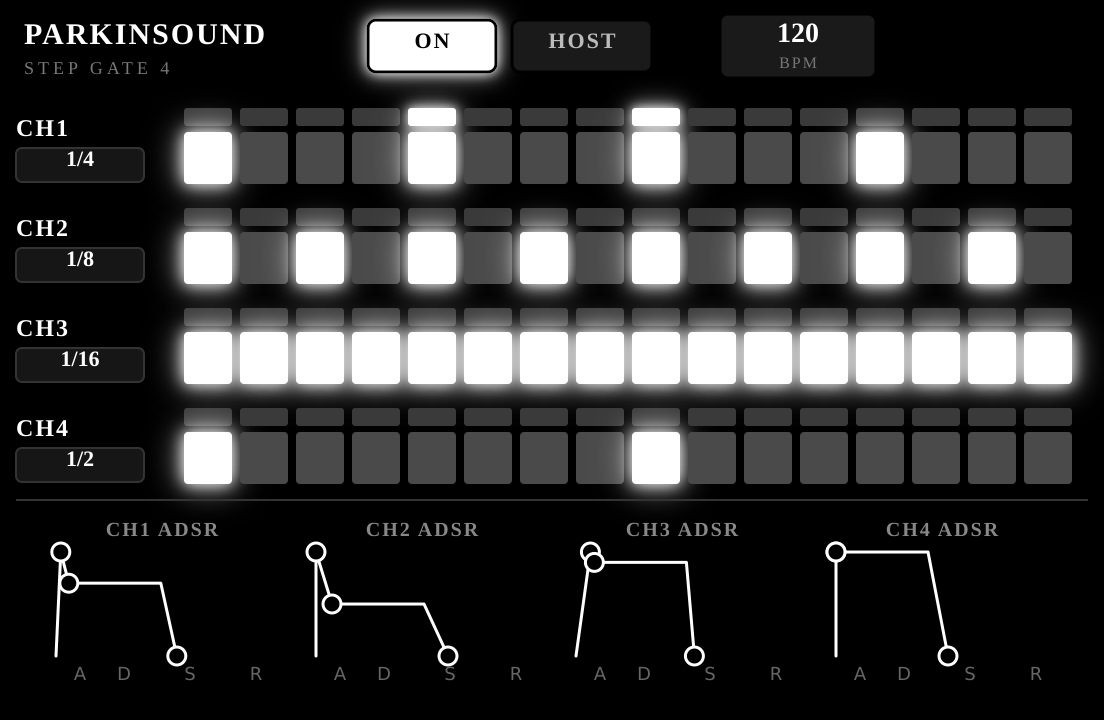
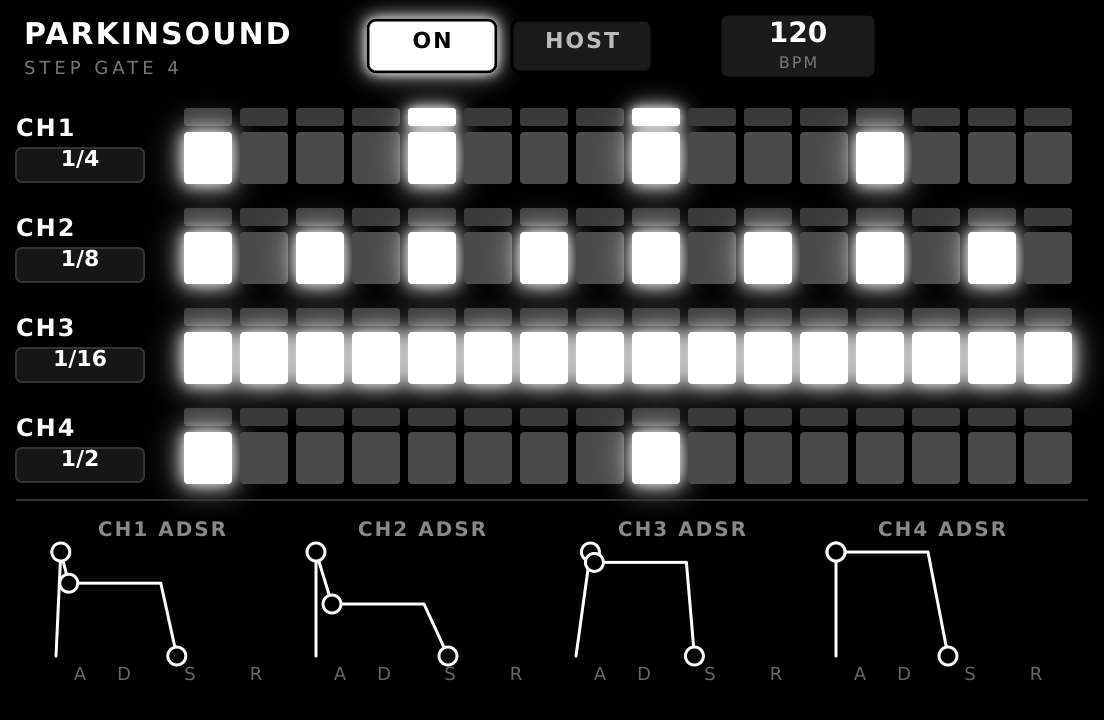
Step Gate 4 modgui: force sans-serif on all text elements
SVG <text> does not reliably inherit font-family from the HTML
container, so set it explicitly. Re-render screenshot/thumbnail.

https://claude.ai/code/session_01CuijmEwyXTMpkVebThoErZ

diff --git a/parkinsound-stepgate4.lv2/modgui/stylesheet-parkinsound-stepgate4.css b/parkinsound-stepgate4.lv2/modgui/stylesheet-parkinsound-stepgate4.css
@@ -20,6 +20,12 @@
     font-family: sans-serif;
 }
 
+/* Every text element in the UI uses a sans-serif face (SVG text does
+ * not reliably inherit font-family from the HTML container). */
+.parkinsound-stepgate4-pedal text {
+    font-family: sans-serif;
+}
+
 /* --- Drag zones --- */
 .parkinsound-stepgate4-pedal .drag-zone {
     position: absolute;